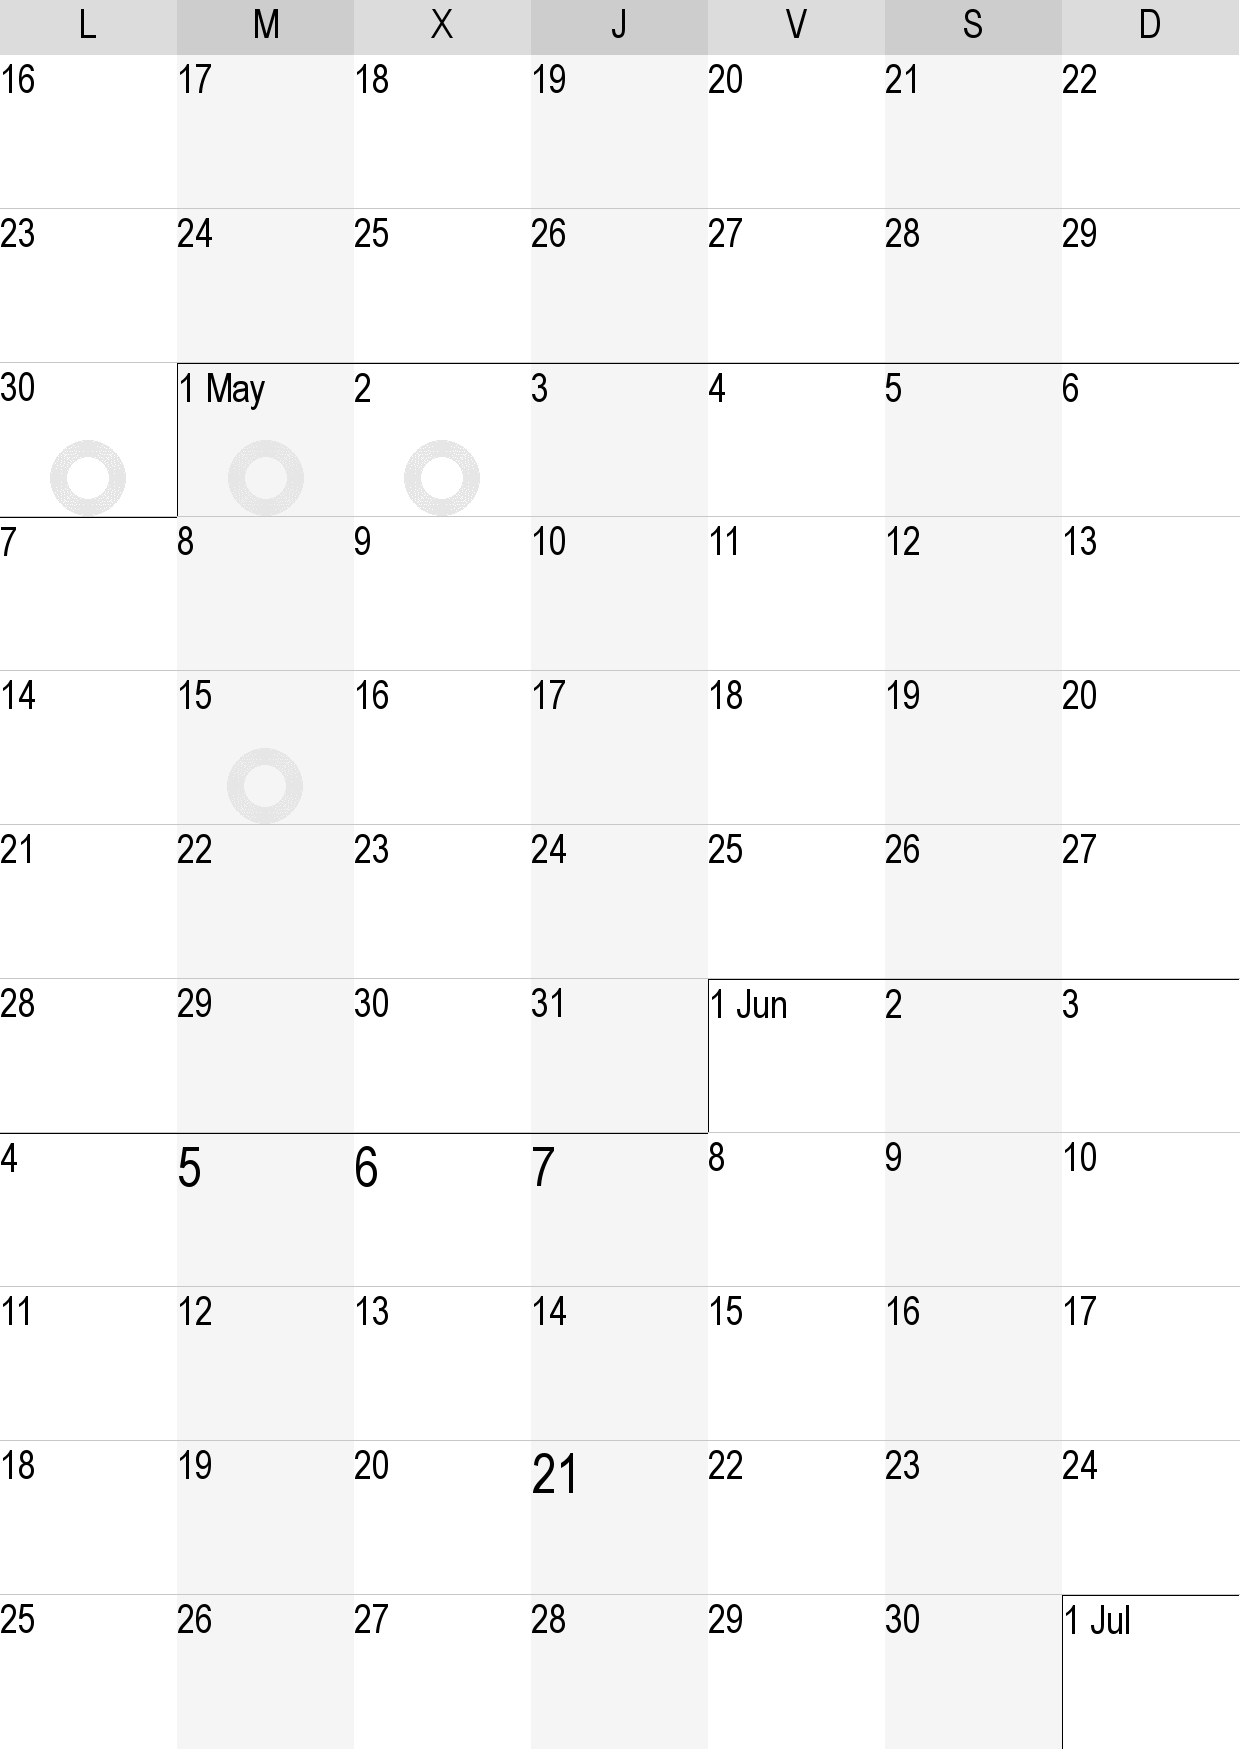
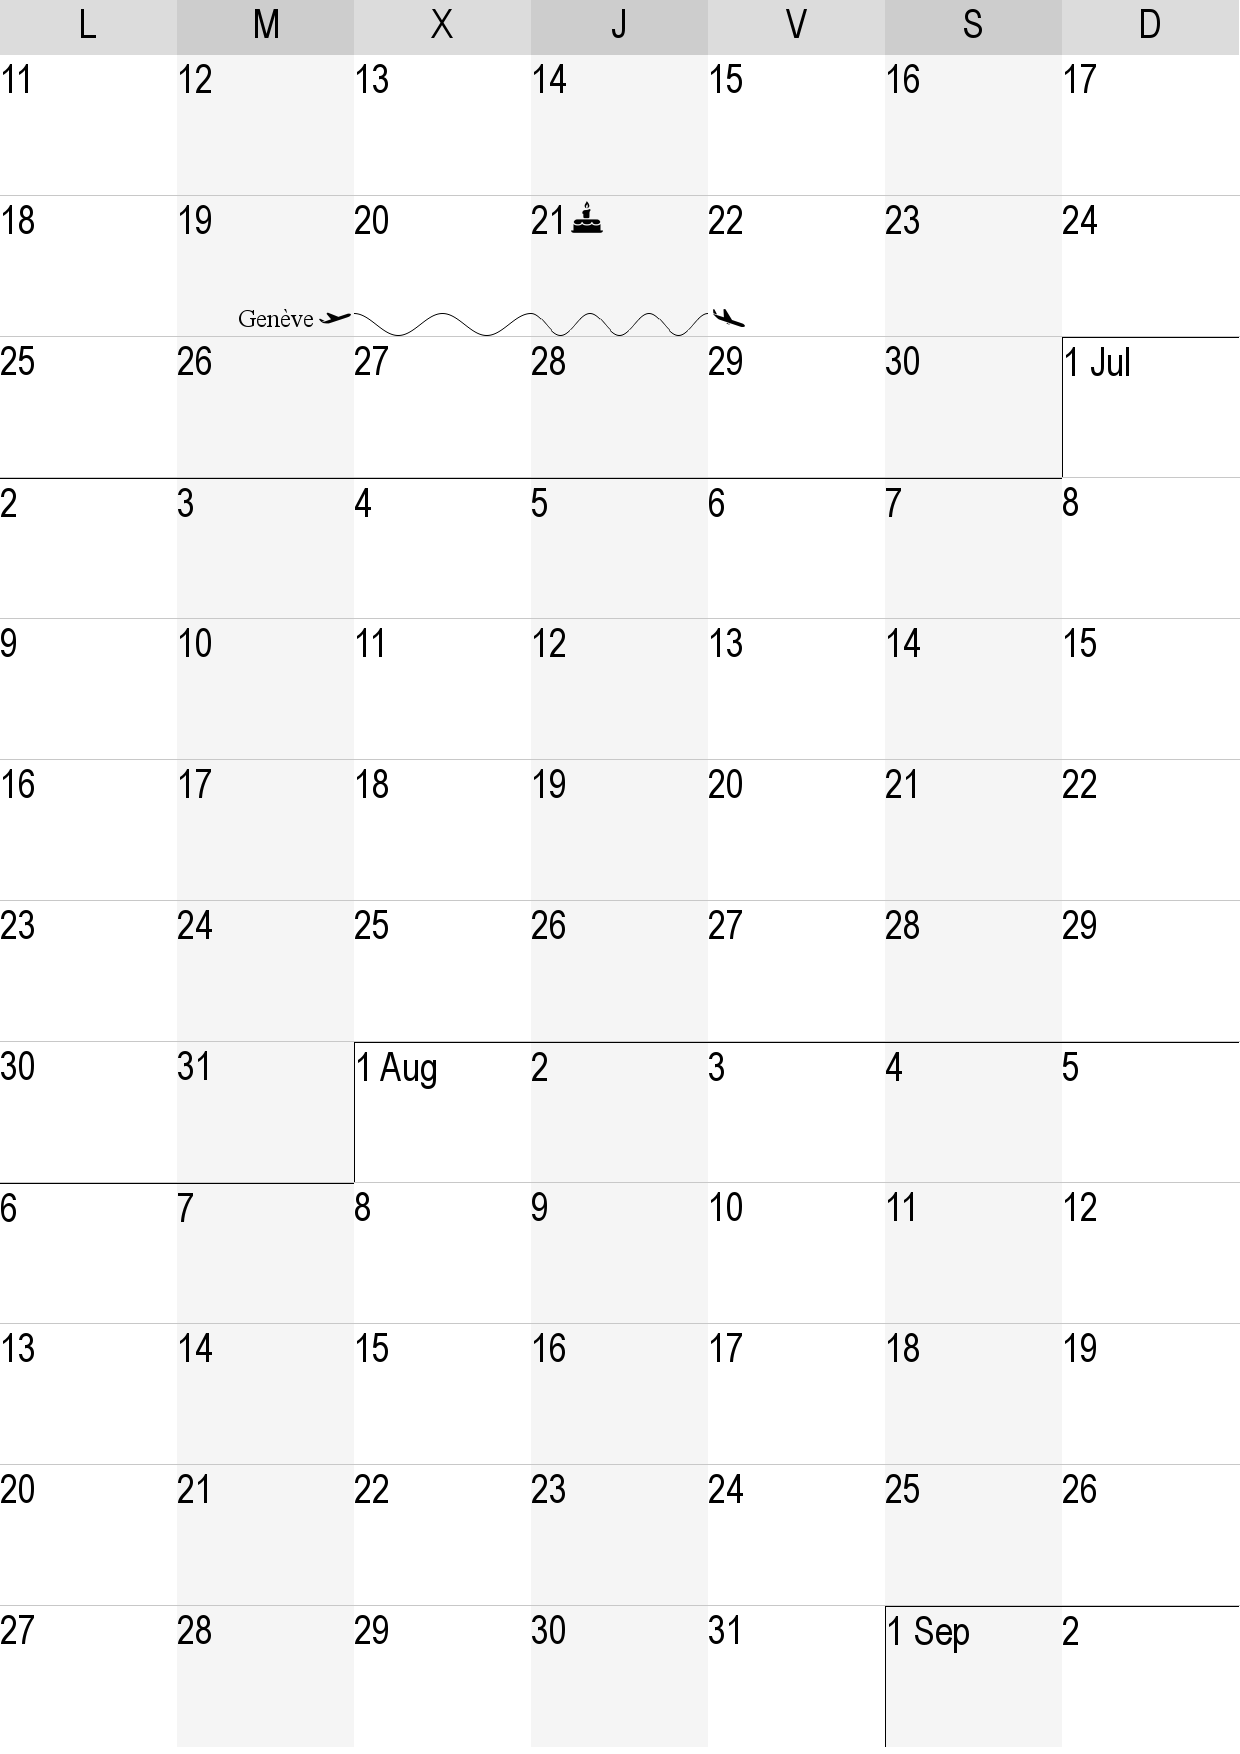
Added a pattern to show while on a trip.

diff --git a/calendar.py b/calendar.py
@@ -5,6 +5,9 @@ from reportlab.pdfgen import canvas
 from datetime import datetime
 from datetime import timedelta
 from math import ceil
+from math import cos
+from math import pi
+from math import exp
 from json import load
 from os.path import join
 
@@ -13,6 +16,22 @@ YEAR = datetime.today().year
 CAKE = pg.image.load(join("images", "cake.png"))
 PLANE1 = pg.image.load(join("images", "plane1.png"))
 PLANE2 = pg.image.load(join("images", "plane2.png"))
+
+
+def pattern(x, y, width, height, times=2, step=1):
+    M = 2 * pi * times
+    out = []
+    for i in range(0, width + 1, step):
+        value = -cos(i / width * M) * height
+        out.append((x + i, y + value))
+    out.append((x + width, y - height))
+    return out
+
+
+def f(x):
+    """Values from 1 to 10 reached first at (0, 1, 2, 3, 4, 5, 7, 9, 12, 17)"""
+    e = 11 - 10 * exp(-x / 7)
+    return int(e)
 
 
 def _datetime(s):
@@ -50,7 +69,7 @@ def create_calendar(path, iDay, fDay, margins, dates):
     pg.font.init()
     wDayFont = pg.font.SysFont("Arial", 40)
     dayFont = pg.font.SysFont("Arial", 40)
-    textFont = pg.font.SysFont("Times", 30)
+    textFont = pg.font.SysFont("Times", 25)
     # Prepare surface and set some sizes
     image = pg.surface.Surface(size)
     image.fill(gray[255])
@@ -69,6 +88,7 @@ def create_calendar(path, iDay, fDay, margins, dates):
     uB = 0  # Upper border
     currentDay = initialDay
     y = headerSize
+    away = 0
     for week in range(weeks):
         for wDay in range(7):
             lB = 0  # Lateral border
@@ -83,26 +103,37 @@ def create_calendar(path, iDay, fDay, margins, dates):
                 if dayNumber == 8:
                     uB = 0
                 text = str(dayNumber)
-            blit_text(image, dayFont, (x + lB, y + uB), text, gray[0],
+            px, py = x + lB, y + uB
+            blit_text(image, dayFont, (px, py), text, gray[0],
                       color, size=(width - lB, height - uB), anchor="NW")
             if currentDay in birthdays:
                 blit_text(image, textFont, (x + lB + 80, y + uB + 5),
                           birthdays[currentDay], gray[0],
                           color, size=(width - lB - 80, height - uB - 5),
                           anchor="NW")
-                image.blit(CAKE, (x + lB + 40, y + uB + 5))
+                image.blit(CAKE, (px + 40, py + 5))
             if currentDay in holidays:
-                pos = (x + lB + (width - lB) // 2,
-                       y + uB + 3 * (height - uB) // 4)
+                pos = (px + (width - lB) // 2,
+                       py + 3 * (height - uB) // 4)
                 pg.draw.circle(image, gray[230], pos, height // 4, height // 9)
             if currentDay in trips:
                 destination = trips[currentDay]
-                image.blit(PLANE1 if destination else PLANE2,
-                           (x + lB + 5, y + height - 35))
-                if destination:
-                    blit_text(image, textFont, (x + lB + 40, y + height - 38),
-                              destination, gray[0], color,
-                              size=(width - lB - 40, 38), anchor="NW")
+                name = destination.lstrip("><")
+                if name:
+                    blit_text(image, textFont, (px, y + height - 38),
+                              name, gray[0], color,
+                              size=(width - lB - 40, 38), anchor="E")
+                if "<" in destination:
+                    away = 0
+                    image.blit(PLANE2, (px + 5, y + height - 35))
+                if ">" in destination:
+                    away = 1
+                    image.blit(PLANE1, (x + width - 35, y + height - 35))
+            elif away:
+                pg.draw.aalines(image, gray[0], False,
+                                pattern(px, y + height - 13, width - lB, 11,
+                                        times=f(away)))
+                away += 1
             currentDay += DAY
         y += height
         if week != weeks - 1:
